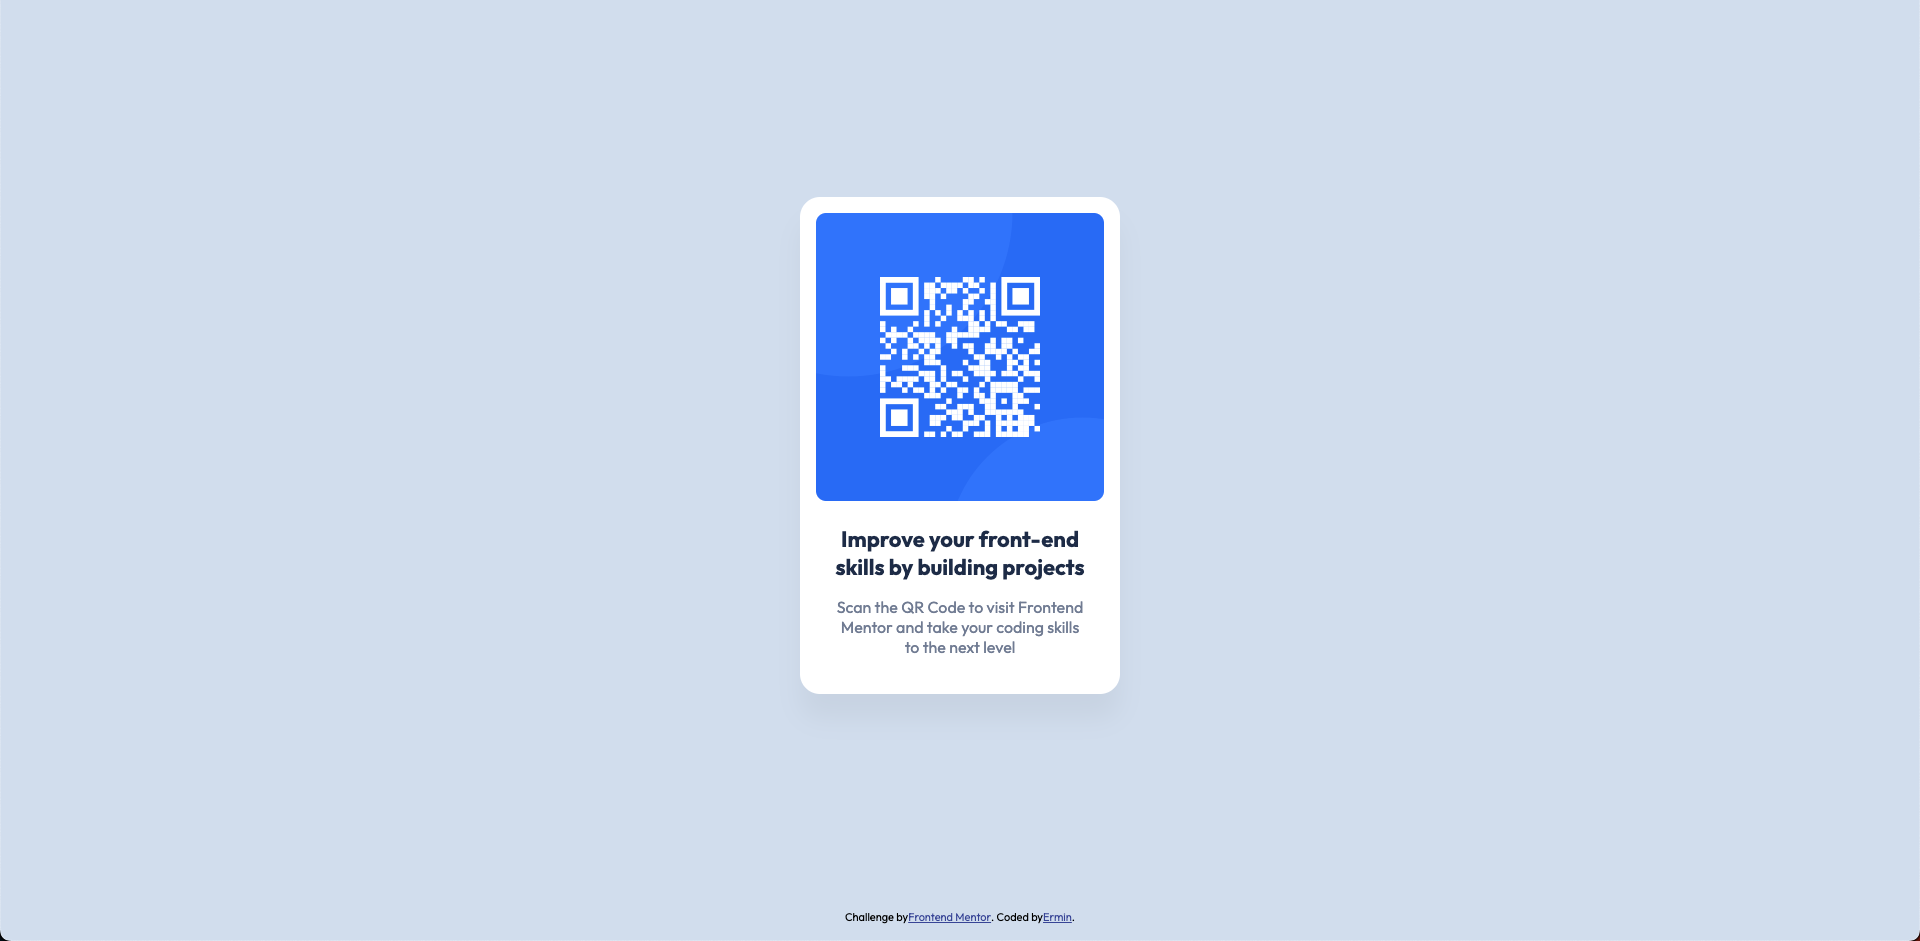
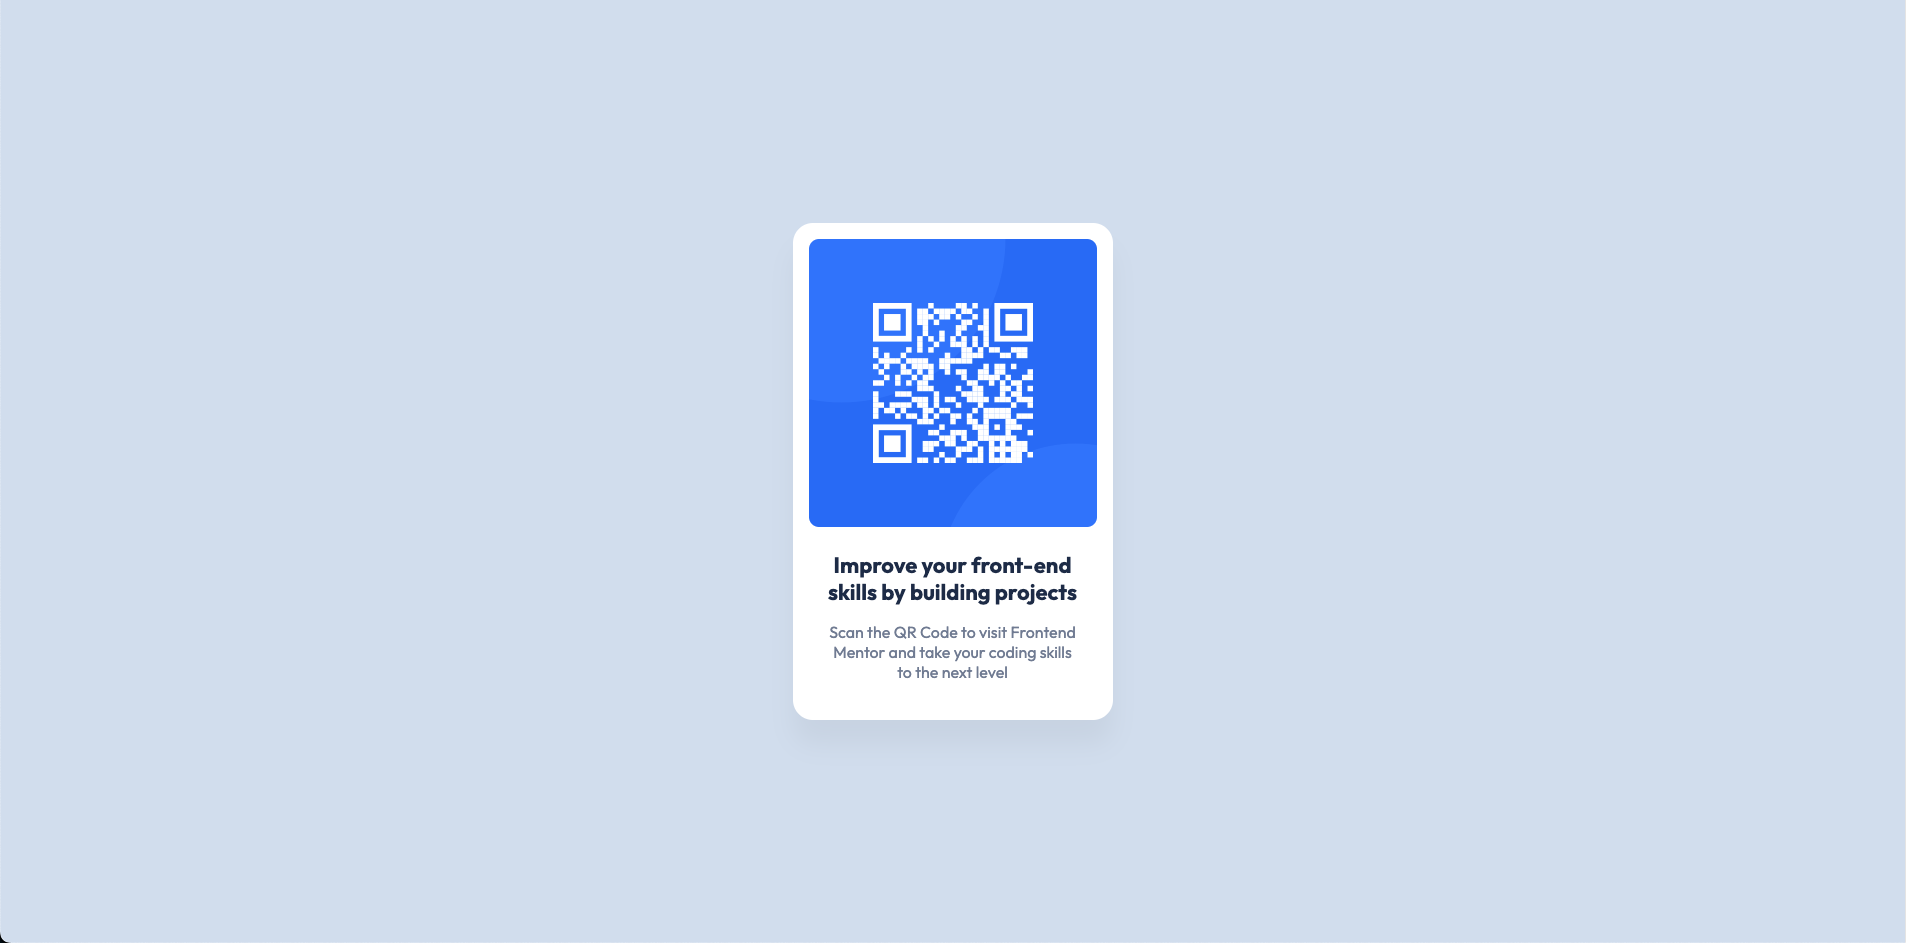
fixing page landmarks index.html

diff --git a/index.html b/index.html
@@ -32,28 +32,28 @@
     </style>
   </head>
   <body>
-    <section>
+    <main role="main">
       <div class="component">
         <div class="qr-code-container">
           <img src="./images/image-qr-code.png" alt="qr code" />
         </div>
         <div class="text-container">
-          <h4 class="title">
+          <h1 class="title">
             Improve your front-end skills by building projects
-          </h4>
+          </h1>
           <p class="title-text">
             Scan the QR Code to visit Frontend Mentor and take your coding
             skills to the next level
           </p>
         </div>
       </div>
-    </section>
+    </main>
 
-    <div class="attribution">
+    <footer role="contentinfo" class="attribution">
       Challenge by
       <a href="https://www.frontendmentor.io?ref=challenge" target="_blank"
         >Frontend Mentor</a
       >. Coded by <a href="https://github.com/erminski">Ermin</a>.
-    </div>
+    </footer>
   </body>
 </html>

diff --git a/styles.css b/styles.css
@@ -34,11 +34,11 @@ body {
   font-family: 'Outfit', sans-serif;
 }
 
-section {
+main {
   display: flex;
   justify-content: center;
   align-items: center;
-  height: 95vh;
+  height: 100vh;
 }
 
 .component {

diff --git a/README.md b/README.md
@@ -21,7 +21,7 @@ This is a solution to the [QR code component challenge on Frontend Mentor](https
 
 ### Links
 
-- Solution URL: [Add solution URL here](https://your-solution-url.com)
+- Solution URL: [Add solution URL here](https://github.com/erminski/qr-code-component)
 - Live Site URL: [Add live site URL here](https://your-live-site-url.com)
 
 ## My process
